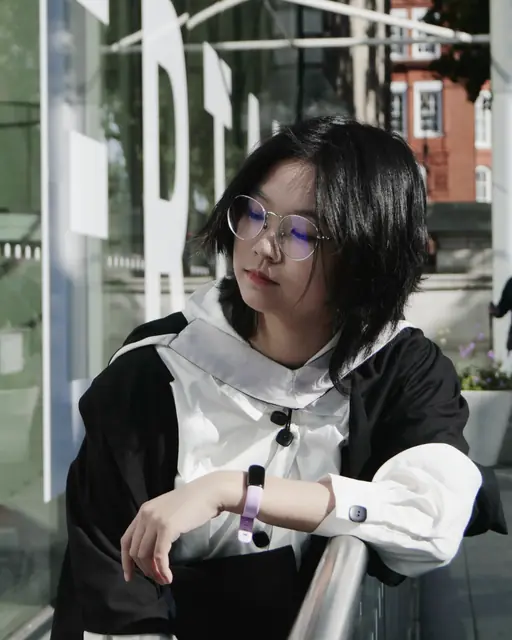
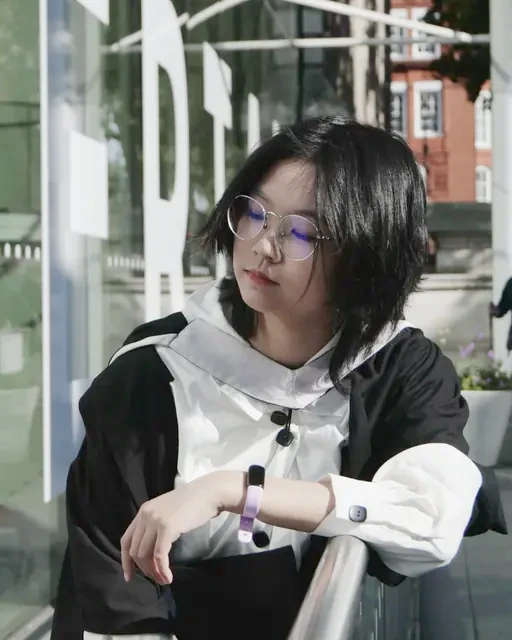
Brighten portrait

diff --git a/index.html b/index.html
@@ -7,7 +7,7 @@
   <meta name="description" content="Zhilu Yang works on 3D vision: multi-view geometry, 3D reconstruction and camera pose estimation.">
   <meta name="author" content="Zhilu Yang">
   <link rel="canonical" href="https://ada-zy2425.github.io/">
-  <link rel="stylesheet" href="assets/site.css?v=20261121b">
+  <link rel="stylesheet" href="assets/site.css?v=20261122">
   <meta property="og:type" content="website">
   <meta property="og:title" content="Zhilu Yang | 3D Vision">
   <meta property="og:description" content="3D reconstruction, multi-view geometry and camera pose estimation.">
@@ -27,7 +27,7 @@
           <a href="https://github.com/ada-zy2425" target="_blank" rel="me noreferrer">GitHub</a>
         </p>
       </div>
-      <img src="assets/images/zhilu-profile-crop-v3.webp" width="512" height="640" alt="Zhilu Yang">
+      <img src="assets/images/zhilu-profile-crop-v3.webp?v=2" width="512" height="640" alt="Zhilu Yang">
     </header>
 
     <section class="about">
